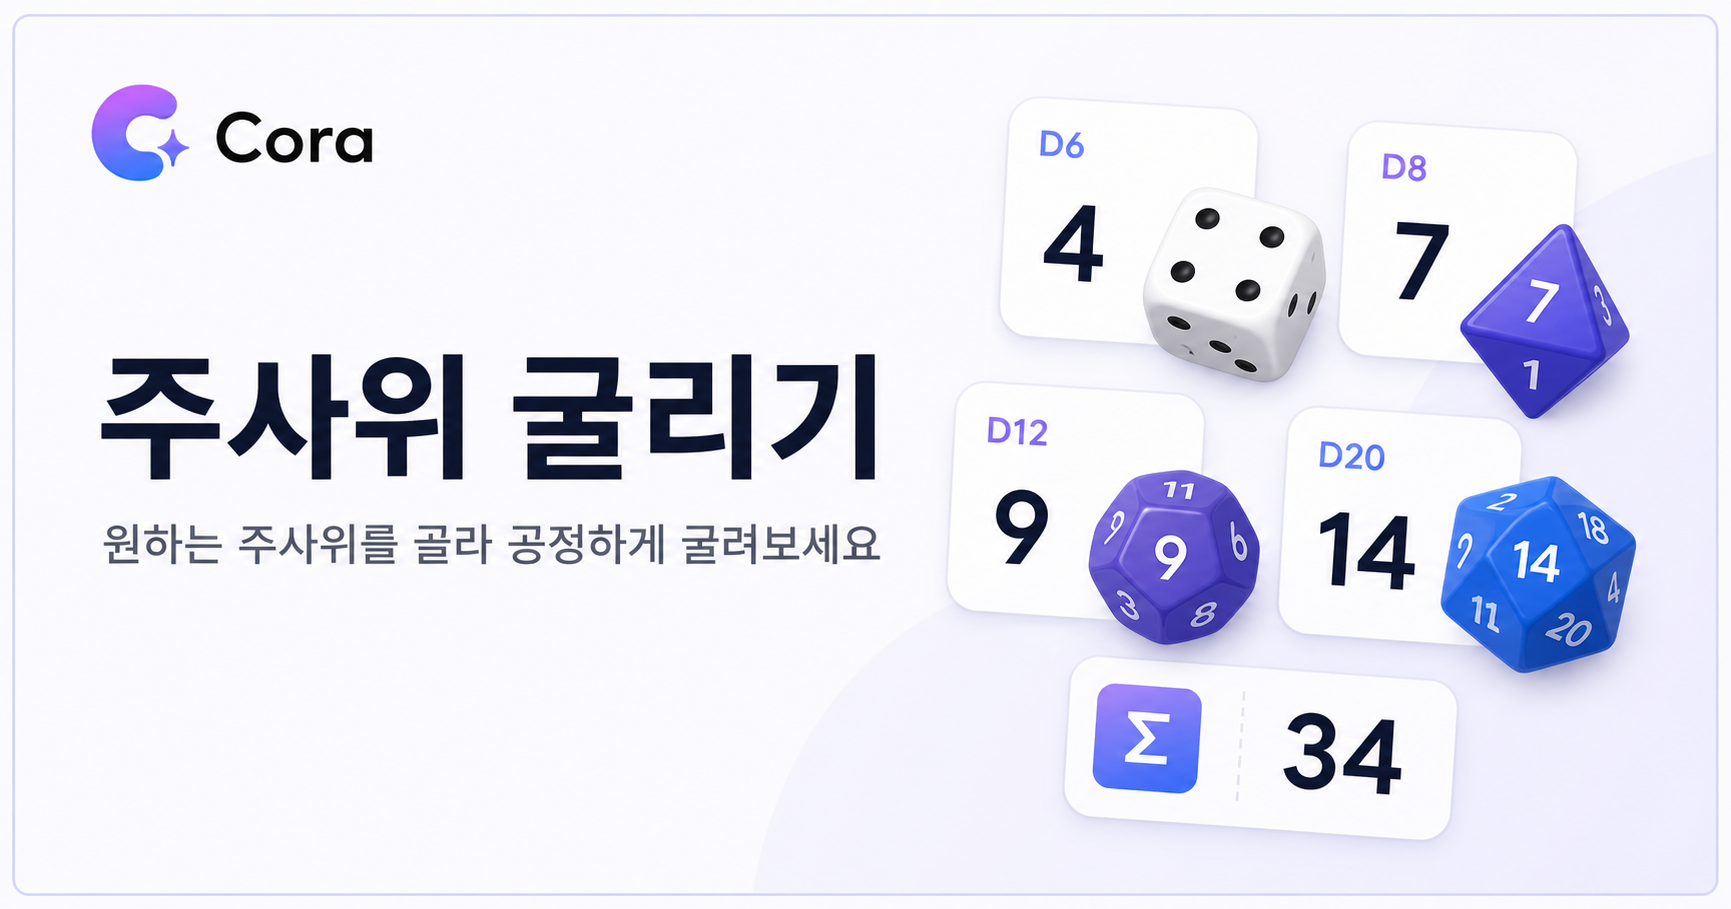
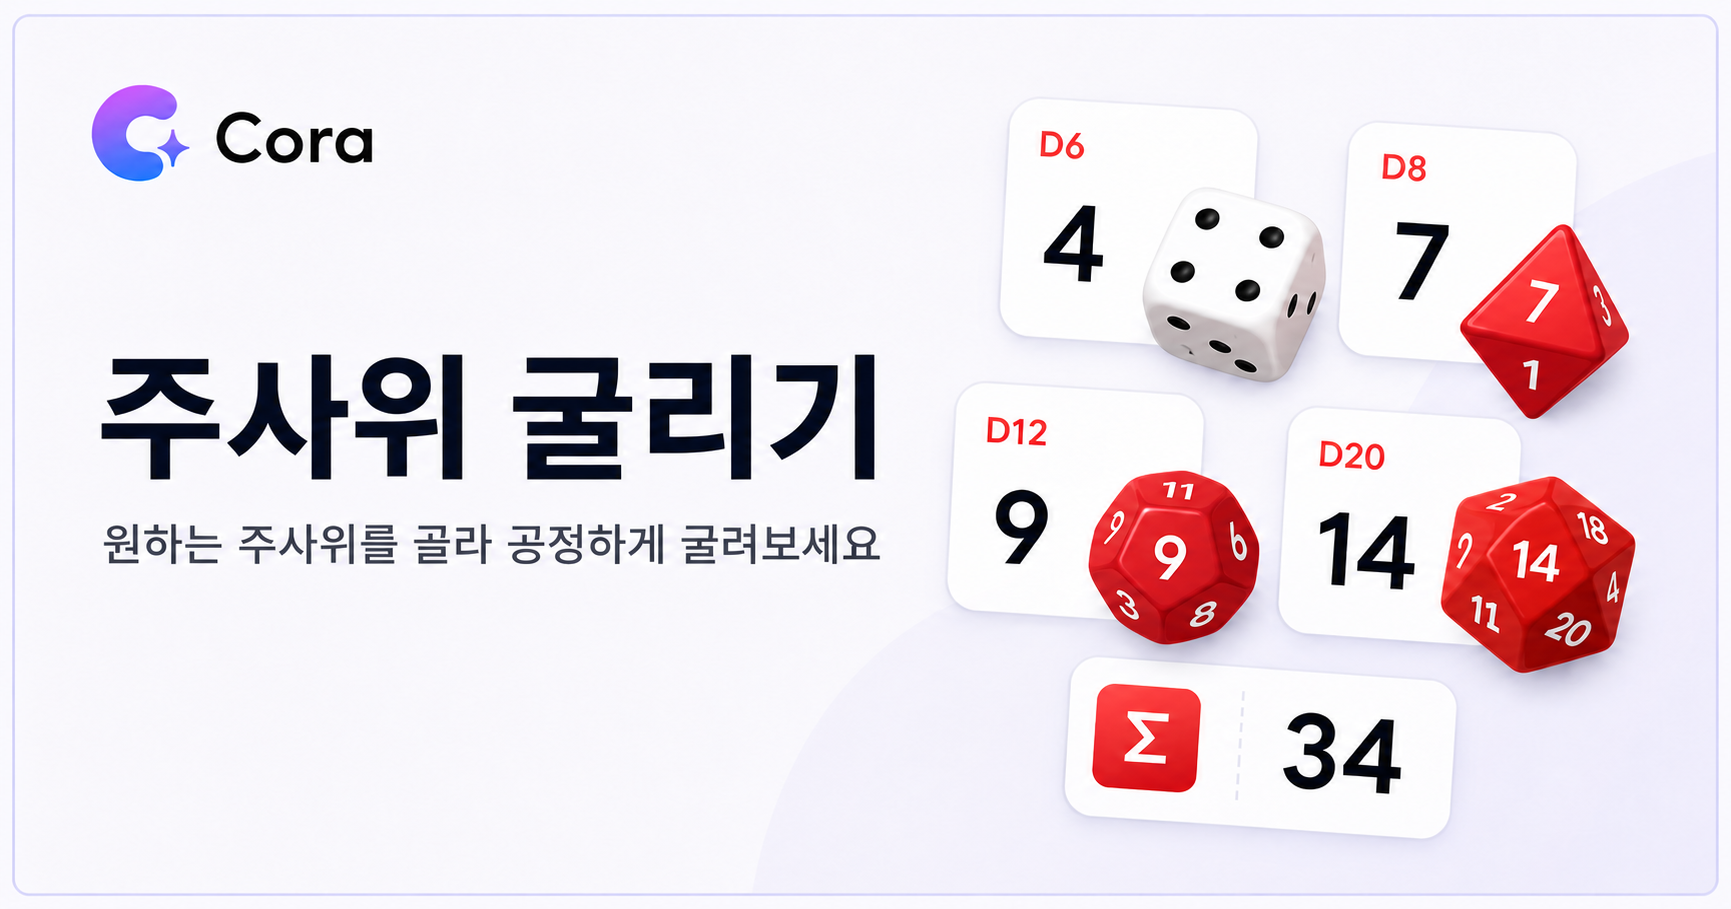
Improve red dice rolling animation

diff --git a/public/assets/js/app.js b/public/assets/js/app.js
@@ -1,4 +1,4 @@
-import { MAX_DICE, MIN_DICE, formatRoll, rollDice, secureRandomInt } from './dice-core.js?v=20260721-1';
+import { MAX_DICE, MIN_DICE, formatRoll, rollDice, secureRandomInt } from './dice-core.js?v=20260721-2';
 
 const sideButtons = [...document.querySelectorAll('[data-sides]')];
 const countValue = document.querySelector('[data-count-value]');
@@ -9,8 +9,6 @@ const resetButton = document.querySelector('[data-reset]');
 const copyButton = document.querySelector('[data-copy]');
 const diceGrid = document.querySelector('[data-dice-grid]');
 const totalValue = document.querySelector('[data-total]');
-const minimumValue = document.querySelector('[data-minimum]');
-const maximumValue = document.querySelector('[data-maximum]');
 const status = document.querySelector('[data-status]');
 const historyList = document.querySelector('[data-history]');
 const emptyHistory = document.querySelector('[data-history-empty]');
@@ -37,13 +35,19 @@ function renderControls() {
   resetButton.disabled = rolling;
 }
 
-function renderDice(values = Array.from({ length: count }, () => null), animate = false) {
+function renderDice(values = Array.from({ length: count }, () => null), phase = 'idle') {
   diceGrid.replaceChildren();
-  diceGrid.classList.toggle('is-rolling', animate);
+  diceGrid.classList.remove('is-tumbling', 'is-settling');
+  if (phase !== 'idle') diceGrid.classList.add(`is-${phase}`);
   values.forEach((value, index) => {
     const die = document.createElement('div');
     die.className = 'die-card';
-    if (animate) die.style.setProperty('--delay', `${index * 32}ms`);
+    const direction = index % 2 === 0 ? -1 : 1;
+    die.style.setProperty('--delay', `${index * 32}ms`);
+    die.style.setProperty('--spin', index % 2 === 0 ? '-340deg' : '340deg');
+    die.style.setProperty('--turn-one', `${direction * 85}deg`);
+    die.style.setProperty('--turn-two', `${direction * 170}deg`);
+    die.style.setProperty('--turn-three', `${direction * 255}deg`);
     const type = document.createElement('span');
     type.className = 'die-type';
     type.textContent = `D${sides}`;
@@ -54,10 +58,15 @@ function renderDice(values = Array.from({ length: count }, () => null), animate 
   });
 }
 
+function updateDiceValues(values) {
+  const numbers = diceGrid.querySelectorAll('.die-card strong');
+  values.forEach((value, index) => {
+    if (numbers[index]) numbers[index].textContent = String(value);
+  });
+}
+
 function renderSummary(result = null) {
   totalValue.textContent = result?.total ?? '—';
-  minimumValue.textContent = result?.minimum ?? '—';
-  maximumValue.textContent = result?.maximum ?? '—';
   copyButton.disabled = !result || rolling;
 }
 
@@ -78,6 +87,8 @@ function renderHistory() {
 
 function setRolling(next) {
   rolling = next;
+  rollButton.classList.toggle('is-rolling', next);
+  diceGrid.setAttribute('aria-busy', String(next));
   renderControls();
   copyButton.disabled = next || !latest;
 }
@@ -85,11 +96,12 @@ function setRolling(next) {
 function finishRoll(result) {
   latest = { ...result, sides };
   history = [latest, ...history].slice(0, 10);
-  renderDice(result.values, !reduceMotion);
+  renderDice(result.values, reduceMotion ? 'idle' : 'settling');
   renderSummary(result);
   renderHistory();
   status.textContent = `${count}D${sides} 결과는 ${result.values.join(', ')}, 합계 ${result.total}입니다.`;
-  setRolling(false);
+  const landingTime = reduceMotion ? 0 : 680 + ((count - 1) * 32);
+  window.setTimeout(() => setRolling(false), landingTime);
 }
 
 function startRoll() {
@@ -98,15 +110,16 @@ function startRoll() {
   setRolling(true);
   status.textContent = '주사위를 굴리는 중입니다.';
   if (reduceMotion) { finishRoll(result); return; }
+  renderDice(Array.from({ length: count }, () => secureRandomInt(sides) + 1), 'tumbling');
   let frames = 0;
   const preview = setInterval(() => {
-    renderDice(Array.from({ length: count }, () => secureRandomInt(sides) + 1), true);
+    updateDiceValues(Array.from({ length: count }, () => secureRandomInt(sides) + 1));
     frames += 1;
-    if (frames >= 6) {
+    if (frames >= 8) {
       clearInterval(preview);
       finishRoll(result);
     }
-  }, 82);
+  }, 95);
 }
 
 async function copyLatest() {

diff --git a/public/index.html b/public/index.html
@@ -11,7 +11,7 @@
   <meta property="og:url" content="https://dice.cora1022.com/"><meta property="og:image" content="https://dice.cora1022.com/og.png"><meta name="twitter:card" content="summary_large_image">
   <meta name="google-adsense-account" content="ca-pub-6044197403684738">
   <script async src="https://pagead2.googlesyndication.com/pagead/js/adsbygoogle.js?client=ca-pub-6044197403684738" crossorigin="anonymous"></script>
-  <link rel="icon" href="/cora-icon.png" type="image/png"><link rel="stylesheet" href="/assets/css/styles.css?v=20260721-1">
+  <link rel="icon" href="/cora-icon.png" type="image/png"><link rel="stylesheet" href="/assets/css/styles.css?v=20260721-2">
   <script type="application/ld+json">{"@context":"https://schema.org","@type":"WebApplication","name":"Cora 주사위 굴리기","url":"https://dice.cora1022.com/","description":"여러 종류의 주사위를 공정하게 굴리는 무료 온라인 랜덤 도구","applicationCategory":"UtilitiesApplication","operatingSystem":"Any","offers":{"@type":"Offer","price":"0","priceCurrency":"KRW"}}</script>
   <script type="application/ld+json">{"@context":"https://schema.org","@type":"FAQPage","mainEntity":[{"@type":"Question","name":"어떤 주사위를 굴릴 수 있나요?","acceptedAnswer":{"@type":"Answer","text":"D4, D6, D8, D10, D12, D20, D100 주사위를 지원합니다."}},{"@type":"Question","name":"주사위를 몇 개까지 굴릴 수 있나요?","acceptedAnswer":{"@type":"Answer","text":"같은 종류의 주사위를 한 번에 최대 12개까지 굴릴 수 있습니다."}},{"@type":"Question","name":"결과는 어떻게 정해지나요?","acceptedAnswer":{"@type":"Answer","text":"기기의 안전한 난수 기능으로 결과를 먼저 정한 다음 애니메이션으로 공개합니다."}}]}</script>
 </head>
@@ -35,7 +35,7 @@
         <div class="panel-heading"><div><span class="step">2</span><h2>굴림 결과</h2></div><button class="button-secondary compact-button" type="button" data-copy disabled>결과 복사</button></div>
         <p class="status" data-status aria-live="polite">주사위 굴리기 버튼을 눌러주세요.</p>
         <div class="dice-grid" data-dice-grid role="group" aria-label="주사위 결과"></div>
-        <div class="summary-grid" role="group" aria-label="결과 요약"><div class="summary-total"><span>합계</span><strong data-total>—</strong></div><div><span>최솟값</span><strong data-minimum>—</strong></div><div><span>최댓값</span><strong data-maximum>—</strong></div></div>
+        <div class="summary-grid" role="group" aria-label="결과 합계"><div class="summary-total"><span>합계</span><strong data-total>—</strong></div></div>
       </div>
     </section>
 
@@ -53,6 +53,6 @@
   <footer class="site-footer"><div class="footer-inner container"><div><strong>Cora 주사위 굴리기</strong><p>필요한 주사위를 빠르고 공정하게 굴립니다.</p></div><nav aria-label="사이트 정책"><a href="/privacy.html">개인정보처리방침</a><a href="/terms.html">이용약관</a><a href="/contact.html">문의</a><a href="https://cora1022.com/">Cora 서비스</a></nav><small>© <span data-year></span> cora1022. All rights reserved.</small></div></footer>
   <aside class="consent" data-consent hidden aria-label="방문 통계 설정"><p>서비스 개선을 위해 익명 방문 통계를 사용합니다. <a href="/privacy.html">자세히 보기</a></p><div class="consent-actions"><button type="button" data-consent-reject>거부</button><button type="button" data-consent-accept>동의</button></div></aside>
   <noscript><p class="noscript">주사위 굴리기를 사용하려면 JavaScript를 켜 주세요.</p></noscript>
-  <script type="module" src="/assets/js/app.js?v=20260721-1"></script><script type="module" src="/assets/js/analytics.js?v=20260721-1"></script><script type="module" src="/assets/js/ads.js?v=20260721-1"></script>
+  <script type="module" src="/assets/js/app.js?v=20260721-2"></script><script type="module" src="/assets/js/analytics.js?v=20260721-1"></script><script type="module" src="/assets/js/ads.js?v=20260721-1"></script>
 </body>
 </html>

diff --git a/public/assets/css/styles.css b/public/assets/css/styles.css
@@ -2,10 +2,10 @@
 *{box-sizing:border-box}html{scroll-behavior:smooth}body{margin:0;min-width:320px;background:#fbfbfd;color:var(--text);line-height:1.65}a{color:inherit}button{font:inherit}:focus-visible{outline:3px solid var(--primary);outline-offset:3px}[hidden]{display:none!important}.container{width:min(1120px,calc(100% - 32px));margin-inline:auto}.skip-link{position:fixed;z-index:100;top:-70px;left:14px;padding:10px 14px;border:2px solid var(--navy);background:#fff;font-weight:800}.skip-link:focus{top:12px}.eyebrow{margin:0 0 7px;color:#596bea;font-size:.78rem;font-weight:850;letter-spacing:.1em;text-transform:uppercase}h1,h2,h3,strong{color:var(--navy)}
 .site-header{position:sticky;z-index:20;top:0;border-bottom:1px solid #ececf2;background:rgba(255,255,255,.94);box-shadow:0 1px 16px rgba(30,41,59,.04);backdrop-filter:blur(12px)}.header-inner{display:flex;min-height:66px;align-items:center;justify-content:space-between;gap:24px}.brand{display:flex;align-items:center;gap:8px;text-decoration:none}.brand-mark{display:block;width:34px;height:34px;object-fit:contain}.brand strong{font-size:1.24rem;font-weight:900;line-height:1;letter-spacing:-.045em}.site-header nav{display:flex;align-items:center;gap:4px}.site-header nav a{padding:8px 10px;border-radius:7px;color:#475569;font-size:.9rem;font-weight:650;text-decoration:none}.site-header nav a:hover{background:#f3f2ff;color:#4657d2}
 .hero{padding:58px 0 26px;text-align:center}.hero h1{margin:0;font-size:clamp(2.4rem,7vw,3.7rem);line-height:1.1;letter-spacing:-.06em}.hero p:last-child{margin:13px auto 0;color:var(--muted);font-size:1.02rem}.roller{display:grid;grid-template-columns:minmax(300px,370px) minmax(0,1fr);gap:20px;align-items:start;padding:20px 0 70px}.card{min-width:0;padding:24px;border:1px solid #e3e4ed;border-radius:20px;background:#fff;box-shadow:0 10px 32px rgba(40,48,91,.06)}.panel-heading{display:flex;align-items:center;justify-content:space-between;gap:14px;margin-bottom:21px}.panel-heading>div{display:flex;align-items:center;gap:10px}.panel-heading h2{margin:0;font-size:1.18rem;letter-spacing:-.035em}.step{display:grid;width:28px;height:28px;place-items:center;border-radius:50%;background:var(--soft);color:var(--primary-dark);font-size:.78rem;font-weight:900}.text-button{padding:6px 4px;border:0;background:transparent;color:#687085;font-size:.8rem;font-weight:750;cursor:pointer}.text-button:hover{color:#b43c4d}.control-group{min-width:0;margin:0;padding:0;border:0}.control-group+.control-group{margin-top:22px}.control-group legend,.control-label{display:block;margin-bottom:9px;color:var(--navy);font-size:.86rem;font-weight:850}.side-options{display:grid;grid-template-columns:repeat(4,1fr);gap:7px}.side-options button{min-height:40px;border:1px solid #dfe1ea;border-radius:8px;background:#fff;color:#565f72;font-weight:800;cursor:pointer}.side-options button:hover:not(:disabled){border-color:#b9befb;background:#fafaff}.side-options button.is-selected{border-color:var(--primary);background:var(--soft);color:var(--primary-dark);box-shadow:inset 0 0 0 1px var(--primary)}.count-control{display:grid;grid-template-columns:44px 1fr 44px;align-items:center;overflow:hidden;border:1px solid #dfe1ea;border-radius:10px}.count-control button{height:44px;border:0;background:#f8f8fb;color:var(--navy);font-size:1.25rem;font-weight:800;cursor:pointer}.count-control button:hover:not(:disabled){background:var(--soft);color:var(--primary-dark)}.count-control button:disabled{cursor:not-allowed;opacity:.35}.count-control strong{text-align:center;font-size:1.2rem}.control-group small{display:block;margin-top:7px;color:var(--muted);font-size:.76rem}.roll-button{display:flex;width:100%;min-height:52px;align-items:center;justify-content:center;gap:9px;margin-top:25px;border:0;border-radius:11px;background:linear-gradient(135deg,#7b6ff0,#4f72ea);color:#fff;font-size:1rem;font-weight:900;box-shadow:0 12px 24px rgba(79,114,234,.22);cursor:pointer}.roll-button:hover:not(:disabled){background:linear-gradient(135deg,#6f63e2,#4565d9);transform:translateY(-1px)}.roll-button:disabled{cursor:not-allowed;opacity:.55}.shortcut{margin:9px 0 0;color:#8b92a3;font-size:.72rem;text-align:center}.button-secondary{display:inline-flex;min-height:42px;align-items:center;justify-content:center;padding:8px 14px;border:1px solid #dfe1ea;border-radius:9px;background:#fff;color:var(--navy);font-weight:800;text-decoration:none;cursor:pointer}.button-secondary:hover:not(:disabled){background:#f5f5fa}.button-secondary:disabled{cursor:not-allowed;opacity:.4}.compact-button{min-height:38px;padding:6px 11px;font-size:.78rem}
-.status{margin:-8px 0 18px;color:var(--muted);font-size:.84rem}.dice-grid{display:grid;min-height:240px;grid-template-columns:repeat(auto-fit,minmax(96px,1fr));align-content:center;gap:13px;padding:12px;border:1px dashed #d9dbea;border-radius:16px;background:#fafaff}.die-card{position:relative;display:grid;aspect-ratio:1;min-height:96px;place-items:center;border:1px solid #dfe1ed;border-radius:18px;background:linear-gradient(145deg,#fff,#f1f2fb);box-shadow:0 10px 22px rgba(58,66,112,.1)}.die-card strong{font-size:clamp(2rem,6vw,3.1rem);line-height:1}.die-type{position:absolute;top:9px;left:11px;color:#838aa0;font-size:.65rem;font-weight:900}.dice-grid.is-rolling .die-card{animation:dice-roll .52s cubic-bezier(.22,.8,.26,1) var(--delay,0ms)}@keyframes dice-roll{0%{opacity:.35;transform:translateY(-20px) rotate(-14deg) scale(.78)}45%{opacity:1;transform:translateY(8px) rotate(10deg) scale(1.08)}72%{transform:translateY(-3px) rotate(-3deg)}100%{transform:none}}.summary-grid{display:grid;grid-template-columns:1.4fr 1fr 1fr;gap:9px;margin-top:14px}.summary-grid>div{padding:14px;border:1px solid #e5e6ef;border-radius:12px;background:#fff;text-align:center}.summary-grid span{display:block;color:#7c8497;font-size:.7rem;font-weight:800}.summary-grid strong{display:block;margin-top:2px;font-size:1.3rem}.summary-total{border-color:#cfd3ff!important;background:var(--soft)!important}.summary-total strong{color:var(--primary-dark);font-size:1.6rem}
+.status{margin:-8px 0 18px;color:var(--muted);font-size:.84rem}.dice-grid{display:grid;min-height:240px;grid-template-columns:repeat(auto-fit,minmax(96px,1fr));align-content:center;gap:13px;overflow:hidden;padding:18px;border:1px dashed #e6c8cc;border-radius:16px;background:linear-gradient(145deg,#fffafa,#fff);perspective:900px}.die-card{position:relative;display:grid;aspect-ratio:1;min-height:96px;place-items:center;overflow:hidden;border:1px solid #991b1b;border-radius:18px;background:linear-gradient(145deg,#f85a5a 0%,#dc2626 52%,#b91c1c 100%);box-shadow:inset 0 1px 0 rgba(255,255,255,.35),inset 0 -7px 13px rgba(99,13,20,.22),0 12px 24px rgba(153,27,27,.2);transform-style:preserve-3d;will-change:transform}.die-card::before{position:absolute;top:-28%;left:-12%;width:86%;height:62%;border-radius:50%;background:linear-gradient(180deg,rgba(255,255,255,.34),rgba(255,255,255,0));content:"";transform:rotate(-14deg)}.die-card strong{position:relative;color:#fff;font-size:clamp(2rem,6vw,3.1rem);line-height:1;text-shadow:0 2px 3px rgba(89,10,15,.32)}.die-type{position:absolute;z-index:1;top:9px;left:11px;color:#ffe4e6;font-size:.65rem;font-weight:900}.dice-grid.is-tumbling .die-card{animation:dice-tumble .68s cubic-bezier(.45,.05,.55,.95) var(--delay) infinite}.dice-grid.is-settling .die-card{animation:dice-land .68s cubic-bezier(.2,.82,.25,1.18) var(--delay) both}.roll-button.is-rolling span{animation:roll-icon .62s linear infinite}@keyframes dice-tumble{0%{transform:translate3d(-7px,-20px,0) rotateX(0deg) rotateY(0deg) rotateZ(0deg) scale(.88)}24%{transform:translate3d(6px,8px,18px) rotateX(105deg) rotateY(-125deg) rotateZ(var(--turn-one)) scale(1.04)}50%{transform:translate3d(-4px,-12px,10px) rotateX(210deg) rotateY(-235deg) rotateZ(var(--turn-two)) scale(.95)}76%{transform:translate3d(7px,5px,16px) rotateX(320deg) rotateY(-350deg) rotateZ(var(--turn-three)) scale(1.03)}100%{transform:translate3d(-7px,-20px,0) rotateX(420deg) rotateY(-480deg) rotateZ(var(--spin)) scale(.88)}}@keyframes dice-land{0%{opacity:.2;transform:translate3d(0,-44px,24px) rotateX(-110deg) rotateY(75deg) rotateZ(var(--spin)) scale(.72)}48%{opacity:1;transform:translate3d(0,10px,0) rotateX(12deg) rotateY(-7deg) rotateZ(-7deg) scale(1.08)}68%{transform:translate3d(0,-6px,0) rotateX(-5deg) rotateY(3deg) rotateZ(3deg) scale(.97)}84%{transform:translate3d(0,2px,0) rotateX(2deg) rotateY(-1deg) rotateZ(-1deg) scale(1.015)}100%{opacity:1;transform:none}}@keyframes roll-icon{to{transform:rotate(360deg)}}.summary-grid{display:grid;margin-top:14px}.summary-grid>div{padding:14px;border:1px solid #f2c8cc;border-radius:12px;background:#fff;text-align:center}.summary-grid span{display:block;color:#7c8497;font-size:.7rem;font-weight:800}.summary-grid strong{display:block;margin-top:2px;font-size:1.3rem}.summary-total{border-color:#efb4ba!important;background:#fff5f5!important}.summary-total strong{color:#b91c1c;font-size:1.7rem}
 .history-section{padding:42px 0 62px;border-top:1px solid var(--line)}.section-heading{display:flex;align-items:end;justify-content:space-between;gap:24px;margin-bottom:20px}.section-heading h2{margin:0;font-size:clamp(1.55rem,4vw,2rem);letter-spacing:-.04em}.section-heading>p{margin:0;color:var(--muted);font-size:.86rem}.history-empty{margin:0;padding:24px;border:1px dashed #d9dbea;border-radius:13px;color:#858da0;text-align:center}.history-list{display:grid;margin:0;padding:0;gap:8px;list-style:none}.history-list li{display:flex;align-items:center;justify-content:space-between;gap:18px;padding:13px 16px;border:1px solid #e5e6ef;border-radius:11px;background:#fff}.history-list span{color:var(--primary-dark);font-size:.76rem;font-weight:900}.history-list strong{overflow:hidden;font-size:.86rem;text-align:right;text-overflow:ellipsis;white-space:nowrap}.content{padding-bottom:86px}.content-block{padding:48px 0;border-top:1px solid var(--line)}.content-block h2,.related h2{margin:0 0 18px;font-size:clamp(1.45rem,4vw,1.9rem);letter-spacing:-.04em}.content-block ol{margin:0;padding-left:22px}.content-block li+li{margin-top:8px}.tip-grid{display:grid;grid-template-columns:repeat(3,1fr);gap:14px}.tip-grid article{padding:19px;border:1px solid var(--line);border-radius:13px;background:#fff}.tip-grid h3{margin:0 0 7px;font-size:1rem}.tip-grid p{margin:0;color:#596174;font-size:.88rem}details{border-top:1px solid var(--line)}details:last-child{border-bottom:1px solid var(--line)}summary{padding:17px 2px;color:var(--navy);font-weight:800;cursor:pointer}details p{margin:-3px 2px 18px;color:#596174}.related{display:flex;align-items:center;justify-content:space-between;gap:24px;padding:30px;border:1px solid #dfe1ef;border-radius:18px;background:#fff}.related h2{margin-bottom:0}.related-actions{display:flex;gap:8px}.ad-slot{width:min(1120px,calc(100% - 32px));min-height:100px;margin:0 auto 30px}
 .site-footer{padding:38px 0 24px;background:var(--footer);color:#dbe1f2}.footer-inner{display:grid;grid-template-columns:1fr auto;gap:24px}.footer-inner strong{color:#fff}.footer-inner p{margin:5px 0;color:#adb7d0;font-size:.86rem}.footer-inner nav{display:flex;flex-wrap:wrap;gap:14px}.footer-inner a{color:#dbe1f2;font-size:.84rem}.footer-inner small{grid-column:1/-1;padding-top:16px;border-top:1px solid #30394f;color:#929db8}.consent{position:fixed;z-index:40;right:18px;bottom:18px;width:min(470px,calc(100% - 36px));padding:17px;border:1px solid var(--line);border-radius:12px;background:#fff;box-shadow:var(--shadow)}.consent p{margin:0 0 13px;color:var(--text);font-size:.9rem}.consent-actions{display:flex;justify-content:flex-end;gap:8px}.consent button{min-height:39px;padding:7px 13px;border:1px solid var(--line);border-radius:7px;background:#fff;color:var(--navy);font-weight:800;cursor:pointer}.consent button:last-child{border-color:var(--primary);background:var(--primary);color:#fff}.noscript{margin:0;padding:12px;background:#fff1f2;color:#9f2638;text-align:center}.policy-shell{width:min(800px,calc(100% - 32px));min-height:65vh;margin:0 auto;padding:58px 0 82px}.policy-shell h1{margin:0;font-size:clamp(2rem,6vw,2.8rem);letter-spacing:-.045em}.policy-shell h2{margin:34px 0 9px;font-size:1.25rem}.policy-shell p,.policy-shell li{color:#4b5563}.policy-meta{color:var(--muted);font-size:.86rem}.contact-card{margin-top:30px;padding:24px;border:1px solid var(--line);border-radius:16px;background:#fff}.contact-card a{color:var(--primary-dark);font-weight:800}.not-found{display:grid;min-height:70vh;place-items:center;padding:24px;text-align:center}.not-found div{max-width:560px}.not-found h1{margin:4px 0;font-size:clamp(2rem,7vw,3.5rem)}.not-found p{color:var(--muted)}
 @media(max-width:850px){.roller{grid-template-columns:1fr}.tip-grid{grid-template-columns:1fr}}
-@media(max-width:560px){.container{width:min(100% - 22px,1120px)}.header-inner{min-height:60px;gap:10px}.site-header nav a{padding-inline:6px;font-size:.78rem}.hero{padding:45px 0 18px}.hero p:last-child{font-size:.92rem}.roller{padding-bottom:50px}.card{padding:18px;border-radius:16px}.side-options{grid-template-columns:repeat(3,1fr)}.dice-grid{grid-template-columns:repeat(2,minmax(0,1fr));padding:9px}.die-card{min-height:0}.summary-grid{grid-template-columns:1fr 1fr}.summary-total{grid-column:1/-1}.section-heading{align-items:flex-start;flex-direction:column;gap:5px}.history-list li{align-items:flex-start;flex-direction:column;gap:3px}.history-list strong{max-width:100%;text-align:left}.related{align-items:stretch;flex-direction:column;padding:22px}.related-actions{display:grid;grid-template-columns:1fr 1fr}.footer-inner{grid-template-columns:1fr}.footer-inner nav{flex-direction:column;gap:7px}.footer-inner small{grid-column:auto}.consent-actions{display:grid;grid-template-columns:1fr 1fr}}
+@media(max-width:560px){.container{width:min(100% - 22px,1120px)}.header-inner{min-height:60px;gap:10px}.site-header nav a{padding-inline:6px;font-size:.78rem}.hero{padding:45px 0 18px}.hero p:last-child{font-size:.92rem}.roller{padding-bottom:50px}.card{padding:18px;border-radius:16px}.side-options{grid-template-columns:repeat(3,1fr)}.dice-grid{grid-template-columns:repeat(2,minmax(0,1fr));padding:12px}.die-card{min-height:0}.section-heading{align-items:flex-start;flex-direction:column;gap:5px}.history-list li{align-items:flex-start;flex-direction:column;gap:3px}.history-list strong{max-width:100%;text-align:left}.related{align-items:stretch;flex-direction:column;padding:22px}.related-actions{display:grid;grid-template-columns:1fr 1fr}.footer-inner{grid-template-columns:1fr}.footer-inner nav{flex-direction:column;gap:7px}.footer-inner small{grid-column:auto}.consent-actions{display:grid;grid-template-columns:1fr 1fr}}
 @media(prefers-reduced-motion:reduce){html{scroll-behavior:auto}*,*::before,*::after{scroll-behavior:auto!important;transition:none!important;animation:none!important}}
 

diff --git a/public/assets/js/dice-core.js b/public/assets/js/dice-core.js
@@ -26,8 +26,6 @@ export function rollDice(count, sides, randomInt = secureRandomInt) {
   return {
     values,
     total: values.reduce((sum, value) => sum + value, 0),
-    minimum: Math.min(...values),
-    maximum: Math.max(...values),
   };
 }
 